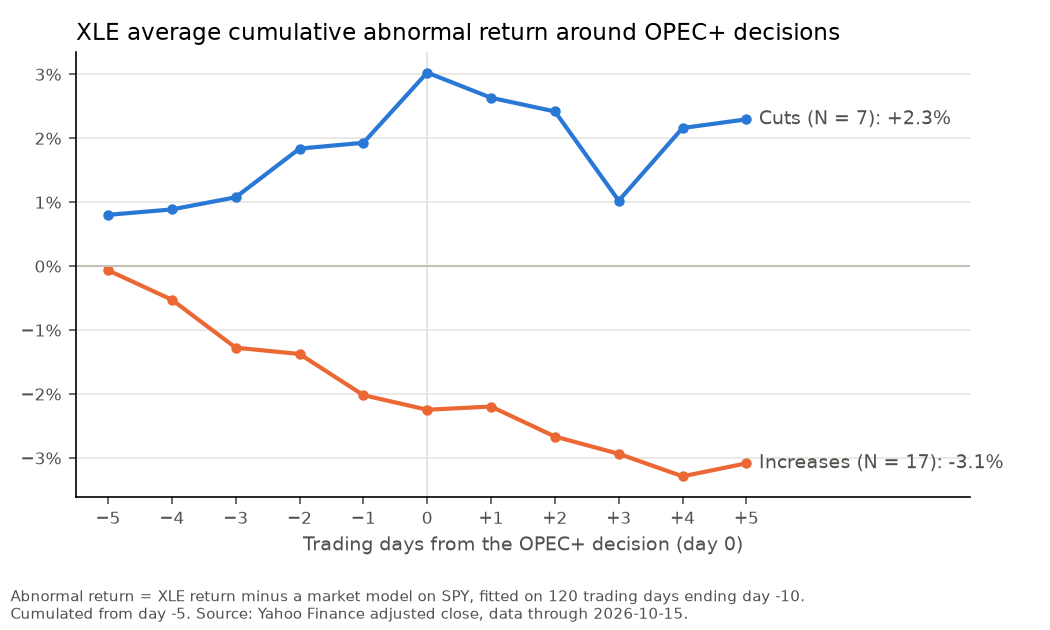
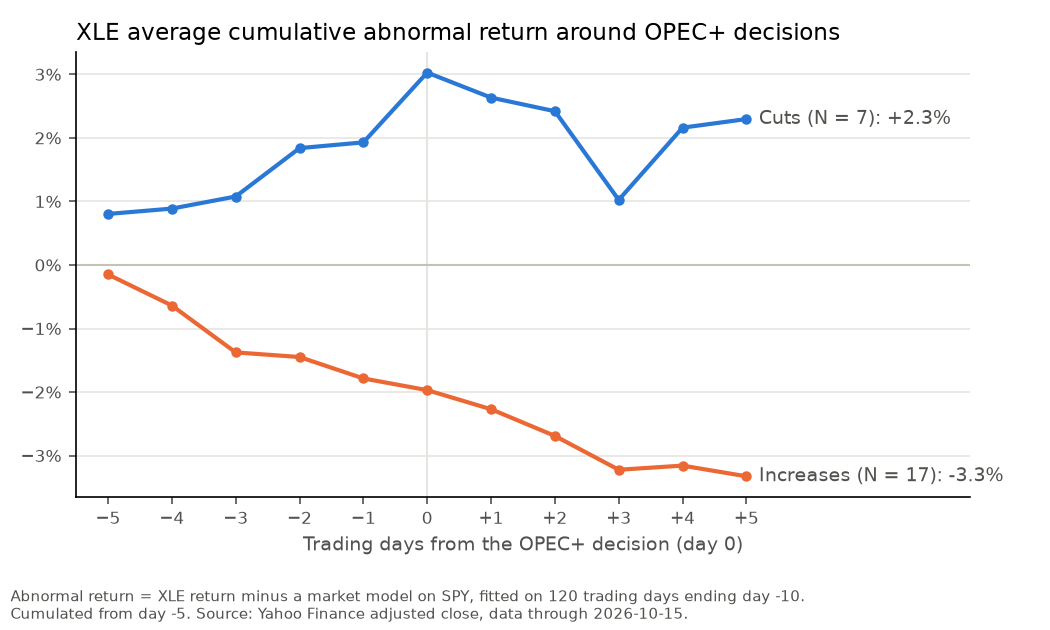
Time and surprise flag for opec_2025_04_03

diff --git a/README.md b/README.md
@@ -77,8 +77,8 @@ t is the cross-sectional t-test. The headline is the [-1,+1] column for cuts and
 
 **Robustness.**
 
-- **Day 0 one trading day later for the 14 rows with an assumed announcement time:** cuts [-1,+1] +0.80% (t 0.57), increases -0.82% (t -0.89), increases [-5,+5] -3.08% (t -2.39).
-- **Without those 14 rows:** only 3 cuts remain, too few to test. Increases (N 13) are -0.52% on [-1,+1] (t -0.85) and -3.66% on [-5,+5] (t -3.04).
+- **Day 0 one trading day later for the 13 rows with an assumed announcement time:** cuts [-1,+1] +0.80% (t 0.57), increases -0.82% (t -0.90), increases [-5,+5] -3.33% (t -2.42).
+- **Without those 13 rows:** only 3 cuts remain, too few to test. Increases (N 14) are -1.37% on [-1,+1] (t -1.34) and -4.55% on [-5,+5] (t -3.19).
 - **Without events fitted on the 5 most extreme days:** the 5 largest XLE-minus-beta-times-SPY days of 2010 to 2026 are 9 Nov 2020 (+13.0%), 9 Mar 2020 (-12.1%), 18 Mar 2020 (-9.1%), 17 Apr 2020 (+7.8%) and 2 Apr 2020 (+6.8%). Five events are fitted on one of them and are dropped (Apr, Jun and Dec 2020, Mar and Jul 2021). Cuts (N 6) are +1.61% on [-1,+1] (t 1.41) and increases (N 15) are -0.88% (t -0.93), with increases at -3.34% on [-5,+5] (t -2.44).
 - **Official announcement time instead of the leak:** the numbers are identical, because the one leak (5 Oct 2022) came the same morning as the release.
 
@@ -90,7 +90,7 @@ Outputs: `results/opec_results.csv` (per event), `results/opec_across_event.csv`
 
 - **Confounding news.** A CAR picks up everything that moved XLE relative to SPY in the window, not only the OPEC+ decision. Other news on the same days (an oil supply shock, a big energy company's earnings, a market-wide selloff that hits energy harder) can look like an event effect. The `confound_note` column records known cases, but it can't catch everything, and longer windows are more exposed.
 - **Thin samples.** OPEC+ decisions are infrequent, and some subgroups (for example Saudi unilateral actions, which are reported separately) will have only a handful of events. With few events the cross-event test has little power, and one unusual event can drive the average.
-- **Few events without the assumed times.** 14 of the 37 events have no sourced announcement time (`time_assumed`). In the without-`time_assumed` report only 3 of the 7 cuts remain (below the 5-event minimum), so the cut group shows "too few events" there and is not tested. The all-events cut group and the shifted run do not have this problem, but they rest on assumed announcement times.
+- **Few events without the assumed times.** 13 of the 37 events have no sourced announcement time (`time_assumed`). In the without-`time_assumed` report only 3 of the 7 cuts remain (below the 5-event minimum), so the cut group shows "too few events" there and is not tested. The all-events cut group and the shifted run do not have this problem, but they rest on assumed announcement times.
 - **Long look-back for 2025 and 2026 events.** OPEC+ decided monthly from 2025, so the recent events sit close together. Their estimation windows skip 44 to 77 days and stretch back up to 197 trading days, so their baselines come from an older period. No cap on the look-back was set (DECISIONS.md).
 - **2020 baselines.** The April and June 2020 events are fitted on windows that include the March 2020 crash (beta 1.28 and 1.34, residual std 1.7% and 2.0% a day, against a median of 1.2% for all events). Their per-event t statistics are small because of that noise.
 - **Overlapping events.** An event's estimation window skips other events' window days and reaches further back, so it can span more than 120 trading days and its beta comes from a slightly older period (`est_start` shows how far back). Only the other events' window days are skipped, not their run-up days before the window. Only events in the events CSV and the mask-only list count. Other news, and other event types, are not skipped. Events whose event windows overlap each other (`nearby_events` above 0) still measure some of the same days, and nothing adjusts for that.

diff --git a/STATUS.md b/STATUS.md
@@ -6,7 +6,7 @@ Last updated: 2026-10-26 (end of session)
 
 - **First full run done** on the 37 events (main, `--shift-assumed`, `--official-time`), all 37 ok, 0 failed, prices through 2026-10-15. Rerun on the clean commit fcd40e8: every `opec_run_info*.json` says `git_dirty: false`, and all results CSVs and charts came out byte-for-byte identical to the first run.
 - Headline (cross-sectional t, [-1,+1]): cuts N 7, +1.51%, t 1.56; increases N 17, -0.51%, t -0.49. Both null. Increases on [-5,+5]: -3.26%, t -2.38 (BMP -2.47, Wilcoxon p 0.045), t stays between -2.03 and -2.79 when any one event is dropped. Most of the cut move is before day 0 (+3.10% by day -1).
-- Shifted run: cuts [-1,+1] +0.80% (t 0.57), increases -0.82% (t -0.89). Firm-only: cuts 3 (too few), increases -0.52% (t -0.85), [-5,+5] -3.66% (t -3.04). Official-time run identical to main (the one leak is the same day as its release).
+- Shifted run (13 time_assumed rows): cuts [-1,+1] +0.80% (t 0.57), increases -0.82% (t -0.90), increases [-5,+5] -3.33% (t -2.42). Firm-only: cuts 3 (too few), increases N 14: -1.37% (t -1.34), [-5,+5] -4.55% (t -3.19). Official-time run identical to main (the one leak is the same day as its release). opec_2025_04_03 upgraded 26 Oct from time_assumed to 09:15 ET (Dow Jones, date-only rule) with surprise_flag 1 (Reuters "unexpectedly").
 - Outlier-exclusion run built (`no_outliers` sample in `opec_across_event*.csv`): top 5 residual days, using one full-sample beta (an assumption, DECISIONS.md does not say which beta), are 2020-11-09, 2020-03-09, 2020-03-18, 2020-04-17, 2020-04-02. 9 Mar 2020 is masked, so it hits no fit. 5 events are dropped (opec_2020_04_09, opec_2020_06_06, opec_2020_12_03, opec_2021_03_04, opec_2021_07_18). Cuts N 6: +1.61% (t 1.41); increases N 15: -0.88% (t -0.93); increases [-5,+5] -3.34% (t -2.44). `runner.estimation_days` gives the fitted days per event.
 - opec_2025_04_03 is the biggest single event: [-1,+1] -12.40% (t -6.09) during the 3-4 Apr 2025 selloff (SPY -4.9%, -5.8%). confound_note now filled (2 Apr tariffs after the close, Fox Business); the other 16 increases average +0.23% (t 0.29) on [-1,+1].
 - README now has a Results section, the average-CAR chart (`charts/opec_caar.png`), a filled Excluded events table, and fixes for the stale lines found in the 21 Oct audit.

diff --git a/DECISIONS.md b/DECISIONS.md
@@ -102,6 +102,8 @@ Decision: saudi_unilateral rows are kept out of the all/cut/hold/increase groups
 
 Decision: The outlier run ranks days by XLE return minus one full-sample beta (2010 to 2026) times SPY return. Reason: a single beta gives one fixed list of extreme days for every event, picked before any CAR was read.
 
+Decision: An event whose day 0 is pinned by a timed news report before the open on the decision day is entered as date-only with that report's time, not time_assumed. Reason: every plausible announcement time then gives the same day 0, which is the existing date-only rule.
+
 ## Not built yet
 - Official-time robustness run (the --official-time flag exists, but the run has not been done)
 - Saudi unilateral subsample report
